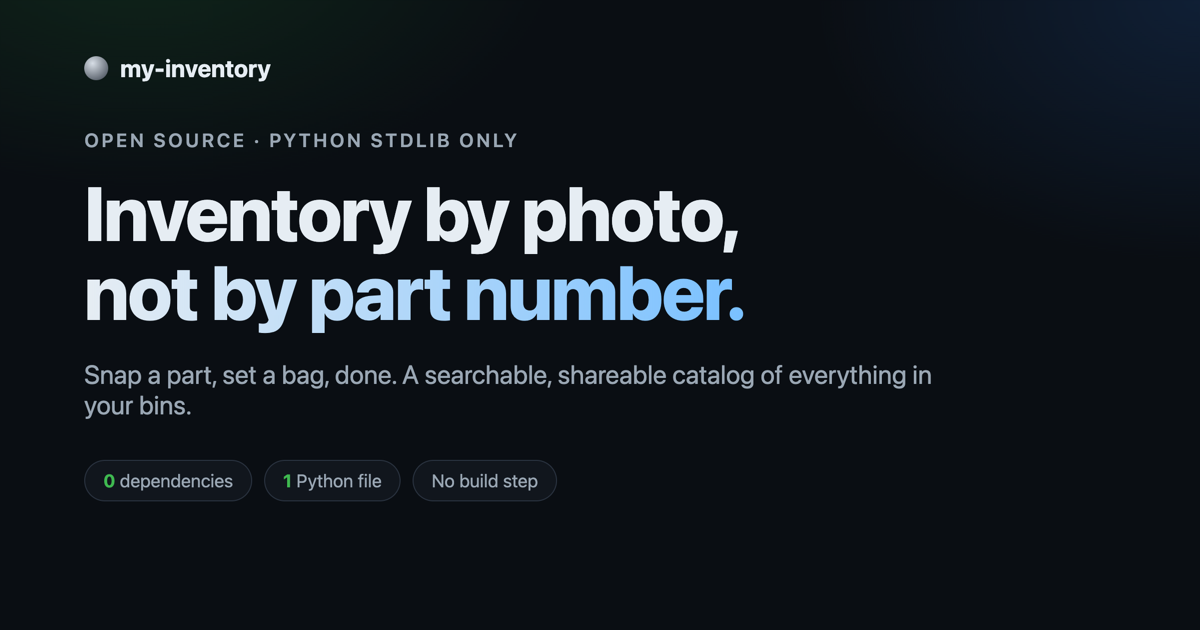
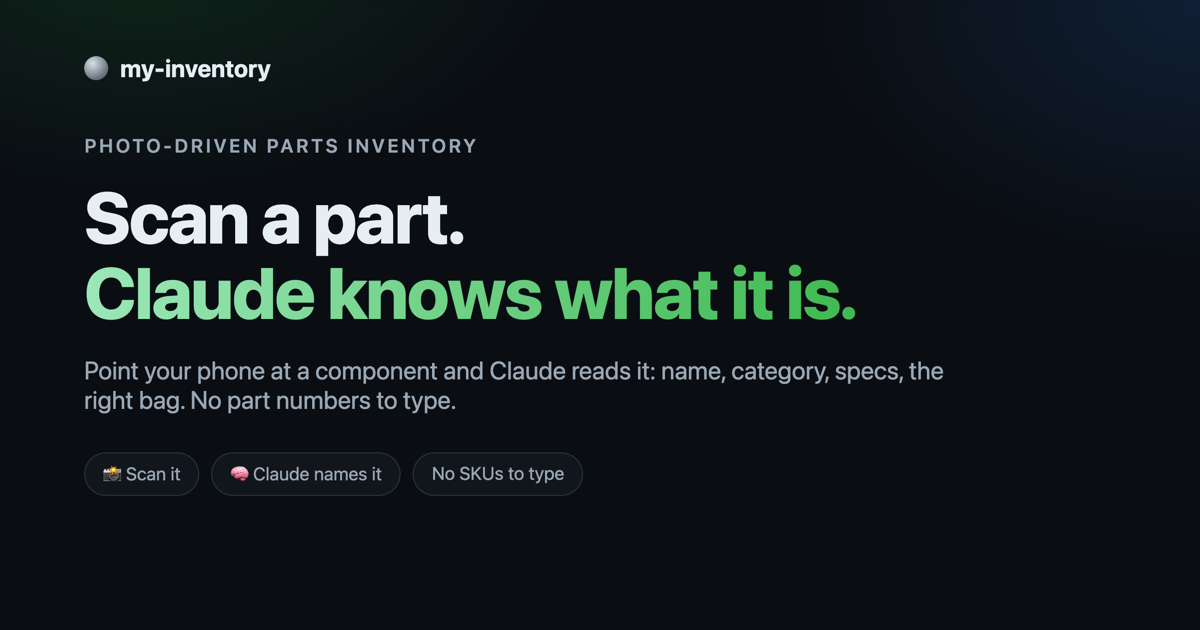
Reframe landing around the core value: scan a part, Claude recognizes it
Lead with phone-scan + AI identification as the hero and add a 'You snap →
Claude recognizes it → It's filed' flow. Demote the Python/stdlib angle to a
single self-host mention. New OG card to match.

diff --git a/docs/index.html b/docs/index.html
@@ -3,21 +3,21 @@
 <head>
 <meta charset="utf-8" />
 <meta name="viewport" content="width=device-width, initial-scale=1" />
-<title>my-inventory: inventory by photo, not by part number</title>
-<meta name="description" content="A photo-driven inventory for small parts. Snap a part, set a bag, done. One Python file, standard library only, no build step. Public dashboard, login to edit, optional AI identification." />
+<title>my-inventory: scan a part, Claude knows what it is</title>
+<meta name="description" content="Point your phone at a part and Claude recognizes it, filling in the name, category, specs and condition, then files it in the right bag. A photo-driven parts inventory you self-host. No part numbers to type." />
 <link rel="canonical" href="https://m-esm.github.io/my-inventory/" />
 
 <!-- Open Graph / Twitter -->
 <meta property="og:type" content="website" />
-<meta property="og:title" content="my-inventory: inventory by photo, not by part number" />
-<meta property="og:description" content="Snap a part, set a bag, done. A searchable, shareable catalog of everything in your bins. One Python file, zero dependencies." />
+<meta property="og:title" content="my-inventory: scan a part, Claude knows what it is" />
+<meta property="og:description" content="Point your phone at a part. Claude reads the photo and fills in the name, category and specs, then files it in the right bag. No part numbers to type." />
 <meta property="og:url" content="https://m-esm.github.io/my-inventory/" />
 <meta property="og:image" content="https://m-esm.github.io/my-inventory/og.png" />
 <meta property="og:image:width" content="1200" />
 <meta property="og:image:height" content="630" />
 <meta name="twitter:card" content="summary_large_image" />
-<meta name="twitter:title" content="my-inventory: inventory by photo, not by part number" />
-<meta name="twitter:description" content="Snap a part, set a bag, done. One Python file, zero dependencies, self-hosted." />
+<meta name="twitter:title" content="my-inventory: scan a part, Claude knows what it is" />
+<meta name="twitter:description" content="Point your phone at a part. Claude recognizes it and catalogs it for you. No part numbers to type." />
 <meta name="twitter:image" content="https://m-esm.github.io/my-inventory/og.png" />
 
 <style>
@@ -42,7 +42,7 @@
   a { color:var(--bluefg); text-decoration:none; }
   .wrap { max-width:1080px; margin:0 auto; padding:0 24px; }
   .eyebrow { font-size:13px; letter-spacing:.12em; text-transform:uppercase; color:var(--dim2); font-weight:600; }
-  .accent { background:linear-gradient(90deg,#e6edf3,#79c0ff); -webkit-background-clip:text; background-clip:text; -webkit-text-fill-color:transparent; }
+  .accent { background:linear-gradient(90deg,#9be7b8,#3fb950); -webkit-background-clip:text; background-clip:text; -webkit-text-fill-color:transparent; }
   .btn { display:inline-flex; align-items:center; gap:8px; border-radius:10px; padding:12px 20px;
          font-weight:600; font-size:15px; border:1px solid var(--line2); background:var(--panel2); color:var(--text); transition:.15s; }
   .btn:hover { border-color:#3a4654; transform:translateY(-1px); }
@@ -62,8 +62,8 @@
 
   /* hero */
   .hero { padding:76px 0 40px; text-align:center; }
-  .hero h1 { font-size:clamp(38px,6vw,66px); line-height:1.04; margin:18px 0 0; letter-spacing:-.02em; font-weight:800; }
-  .hero p.sub { font-size:clamp(17px,2.2vw,21px); color:var(--dim2); max-width:680px; margin:22px auto 0; }
+  .hero h1 { font-size:clamp(38px,6vw,64px); line-height:1.05; margin:18px 0 0; letter-spacing:-.02em; font-weight:800; }
+  .hero p.sub { font-size:clamp(17px,2.2vw,21px); color:var(--dim2); max-width:700px; margin:22px auto 0; }
   .cta-row { margin-top:30px; display:flex; gap:14px; justify-content:center; flex-wrap:wrap; }
   .pills { margin-top:26px; display:flex; gap:10px; justify-content:center; flex-wrap:wrap; }
   .pill { font-size:13px; color:var(--dim2); border:1px solid var(--line2); background:var(--panel); border-radius:999px; padding:6px 13px; }
@@ -80,23 +80,29 @@
   /* sections */
   section { padding:72px 0; border-top:1px solid var(--line); }
   .stitle { font-size:clamp(26px,3.4vw,38px); font-weight:800; letter-spacing:-.02em; margin:0; text-align:center; }
-  .slead { text-align:center; color:var(--dim2); max-width:640px; margin:14px auto 0; font-size:17px; }
+  .slead { text-align:center; color:var(--dim2); max-width:660px; margin:14px auto 0; font-size:17px; }
 
-  /* why cards */
-  .why { display:grid; grid-template-columns:repeat(3,1fr); gap:18px; margin-top:46px; }
-  .why .c { background:var(--panel); border:1px solid var(--line); border-radius:14px; padding:24px; }
-  .why .c h3 { margin:6px 0 8px; font-size:18px; }
-  .why .c p { margin:0; color:var(--dim2); font-size:15px; }
-  .why .c .ic { font-size:24px; }
-  @media (max-width:760px){ .why { grid-template-columns:1fr; } }
+  /* flow (the recognition pipeline) */
+  .flow { display:grid; grid-template-columns:1fr auto 1fr auto 1fr; align-items:stretch; gap:16px; margin-top:48px; }
+  .flow .arrow { align-self:center; color:var(--dim); font-size:24px; }
+  .node { background:var(--panel); border:1px solid var(--line); border-radius:16px; padding:26px 22px; text-align:center; }
+  .node.star { border-color:#2ea04366; box-shadow:0 0 0 1px #2ea04333, 0 20px 50px -30px #2ea04355; background:linear-gradient(180deg,#11201a,#11161d); }
+  .node .ic { font-size:30px; }
+  .node h3 { margin:12px 0 8px; font-size:18px; }
+  .node p { margin:0; color:var(--dim2); font-size:14.5px; }
+  .node .tag { display:inline-block; margin-bottom:6px; font-size:11px; letter-spacing:.1em; text-transform:uppercase; color:var(--live); font-weight:700; }
+  @media (max-width:780px){
+    .flow { grid-template-columns:1fr; }
+    .flow .arrow { transform:rotate(90deg); }
+  }
 
   /* steps */
   .step { display:grid; grid-template-columns:1fr 1fr; gap:44px; align-items:center; margin-top:54px; }
   .step:first-of-type { margin-top:46px; }
   .step.rev .txt { order:2; }
-  .step .num { display:inline-flex; align-items:center; justify-content:center; width:34px; height:34px; border-radius:9px;
-               background:var(--bluefg)14; color:var(--bluefg); border:1px solid #2f81f755; font-weight:700; font-size:15px; }
-  .step h3 { font-size:23px; margin:16px 0 8px; letter-spacing:-.01em; }
+  .step .num { display:inline-flex; align-items:center; justify-content:center; height:30px; padding:0 13px; border-radius:999px;
+               background:#2ea0431f; color:var(--live); border:1px solid #2ea04355; font-weight:700; font-size:13px; letter-spacing:.03em; }
+  .step h3 { font-size:24px; margin:16px 0 8px; letter-spacing:-.01em; }
   .step p { color:var(--dim2); margin:0; }
   .step .shot { border:1px solid var(--line2); border-radius:12px; overflow:hidden; background:var(--panel); box-shadow:0 24px 60px -36px #000; }
   .step .shot img { display:block; width:100%; height:auto; }
@@ -111,15 +117,18 @@
   .feat p { margin:0; color:var(--dim2); font-size:14.5px; }
   @media (max-width:760px){ .grid { grid-template-columns:1fr; } }
 
-  /* code */
-  .code { max-width:720px; margin:40px auto 0; background:#06090d; border:1px solid var(--line2); border-radius:12px; overflow:hidden; }
+  /* self-host */
+  .host { display:grid; grid-template-columns:1fr 1fr; gap:40px; align-items:center; margin-top:40px; }
+  .host h2 { font-size:clamp(24px,3vw,32px); font-weight:800; letter-spacing:-.02em; margin:0 0 12px; }
+  .host p { color:var(--dim2); margin:0 0 10px; }
+  .code { background:#06090d; border:1px solid var(--line2); border-radius:12px; overflow:hidden; }
   .code .top { padding:9px 14px; border-bottom:1px solid var(--line); color:var(--dim); font-size:12px; background:var(--panel2); }
-  .code pre { margin:0; padding:20px; overflow-x:auto; font:14px/1.7 ui-monospace, SFMono-Regular, Menlo, monospace; }
-  .code .p { color:var(--live); } .code .c { color:var(--dim); } .code .k { color:var(--bluefg); }
+  .code pre { margin:0; padding:18px; overflow-x:auto; font:13.5px/1.7 ui-monospace, SFMono-Regular, Menlo, monospace; }
+  .code .p { color:var(--live); } .code .c { color:var(--dim); }
+  @media (max-width:760px){ .host { grid-template-columns:1fr; gap:22px; } }
 
   /* final cta */
-  .final { text-align:center; background:
-      radial-gradient(700px 300px at 50% 0%, #23863622, transparent 70%); }
+  .final { text-align:center; background:radial-gradient(700px 300px at 50% 0%, #23863622, transparent 70%); }
   .final h2 { font-size:clamp(28px,4vw,44px); font-weight:800; letter-spacing:-.02em; margin:0; }
   .final p { color:var(--dim2); font-size:18px; margin:16px auto 30px; max-width:560px; }
   .clone { display:inline-block; margin-top:24px; font:13.5px ui-monospace, Menlo, monospace; color:var(--dim2);
@@ -138,26 +147,26 @@
   <div class="nav-links">
     <a href="#how">How it works</a>
     <a href="#features">Features</a>
-    <a href="#start">Get started</a>
+    <a href="#host">Self-host</a>
     <a class="btn" href="https://github.com/m-esm/my-inventory" target="_blank" rel="noopener">GitHub</a>
   </div>
 </div></nav>
 
 <header class="hero"><div class="wrap">
-  <div class="eyebrow">Open source · Python stdlib only · GPL-3.0</div>
-  <h1>Inventory by photo,<br><span class="accent">not by part number.</span></h1>
-  <p class="sub">You never have the SKU. You have the part in your hand. Photograph it, drop it in a bag, and my-inventory turns that into a searchable, shareable catalog of everything in your bins, without a single dependency to install.</p>
+  <div class="eyebrow">Photo-driven parts inventory</div>
+  <h1>Point your phone at a part.<br><span class="accent">Claude knows what it is.</span></h1>
+  <p class="sub">Scan a resistor, a sensor, a mystery board from a teardown. my-inventory grabs the photo and Claude reads it, filling in the name, category, specs and condition, then files it in the right bag. You never type a part number. You never even type a name.</p>
   <div class="cta-row">
     <a class="btn primary" href="https://github.com/m-esm/my-inventory" target="_blank" rel="noopener">
       <svg viewBox="0 0 16 16" fill="currentColor"><path d="M8 0C3.58 0 0 3.58 0 8c0 3.54 2.29 6.53 5.47 7.59.4.07.55-.17.55-.38 0-.19-.01-.82-.01-1.49-2.01.37-2.53-.49-2.69-.94-.09-.23-.48-.94-.82-1.13-.28-.15-.68-.52-.01-.53.63-.01 1.08.58 1.23.82.72 1.21 1.87.87 2.33.66.07-.52.28-.87.51-1.07-1.78-.2-3.64-.89-3.64-3.95 0-.87.31-1.59.82-2.15-.08-.2-.36-1.02.08-2.12 0 0 .67-.21 2.2.82.64-.18 1.32-.27 2-.27.68 0 1.36.09 2 .27 1.53-1.04 2.2-.82 2.2-.82.44 1.1.16 1.92.08 2.12.51.56.82 1.27.82 2.15 0 3.07-1.87 3.75-3.65 3.95.29.25.54.73.54 1.48 0 1.07-.01 1.93-.01 2.2 0 .21.15.46.55.38A8.01 8.01 0 0016 8c0-4.42-3.58-8-8-8z"/></svg>
       View on GitHub
     </a>
-    <a class="btn" href="#how">See how it works</a>
+    <a class="btn" href="#how">See it in action</a>
   </div>
   <div class="pills">
-    <span class="pill"><b>0</b> dependencies</span>
-    <span class="pill"><b>1</b> Python file to deploy</span>
-    <span class="pill">No build step</span>
+    <span class="pill">📸 Scan with your phone</span>
+    <span class="pill">🧠 Claude fills in the details</span>
+    <span class="pill">No part numbers to type</span>
     <span class="pill">Ships a <b>~60-item</b> live example</span>
   </div>
 
@@ -165,84 +174,103 @@
     <div class="bar"><i></i><i></i><i></i><span class="url">localhost:8770/dashboard</span></div>
     <picture>
       <source srcset="screenshots/dashboard.webp" type="image/webp" />
-      <img src="screenshots/dashboard.png" alt="The my-inventory dashboard: a grid of electronics parts with photos, quantities, bag locations and category tags." loading="eager" width="1600" height="1345" />
+      <img src="screenshots/dashboard.png" alt="A dashboard of parts that Claude identified from photos: each card shows the part image plus a name, category, condition and bag location." loading="eager" width="1600" height="1345" />
     </picture>
   </div>
 </div></header>
 
-<section id="why"><div class="wrap">
-  <h2 class="stitle">Built around the photo, not the spreadsheet</h2>
-  <p class="slead">Most inventory tools ask for a part number you don't have. This one starts from the one honest record of what's in a bag: a picture of it.</p>
-  <div class="why">
-    <div class="c"><div class="ic">📷</div><h3>A photo beats a part number</h3><p>A macro shot identifies a component faster than digging for a SKU that rubbed off the bag months ago. The image is the source of truth; names and specs are optional metadata.</p></div>
-    <div class="c"><div class="ic">🔗</div><h3>Public to view, locked to edit</h3><p>Send a collaborator a read-only link to the whole catalog. Edit controls appear only after you log in. Auth stays off until you create the first admin.</p></div>
-    <div class="c"><div class="ic">🪶</div><h3>Runs on anything</h3><p><code>python3 server.py</code> and it's live. No Node, no pip, no database, no build pipeline. The same single file runs on your laptop or a $5 VPS.</p></div>
+<section id="recognize"><div class="wrap">
+  <h2 class="stitle">You photograph it. Claude catalogs it.</h2>
+  <p class="slead">The part in your hand is the only input. No SKUs to look up, no datasheets, no typing names that rub off the bag a month later.</p>
+  <div class="flow">
+    <div class="node">
+      <div class="ic">📸</div>
+      <h3>You snap</h3>
+      <p>Hold a part up to your phone (Continuity Camera) or any webcam. Take a few shots: the part, the label, the back of the board.</p>
+    </div>
+    <div class="arrow">→</div>
+    <div class="node star">
+      <span class="tag">the magic</span>
+      <div class="ic">🧠</div>
+      <h3>Claude recognizes it</h3>
+      <p>It reads the photo and identifies the component: name, category, condition, plus specs and SKU lifted off the label. Unsure? it flags the value for you to confirm.</p>
+    </div>
+    <div class="arrow">→</div>
+    <div class="node">
+      <div class="ic">🗂️</div>
+      <h3>It's filed</h3>
+      <p>The part lands on your dashboard with its photo, quantity and bag, instantly searchable and shareable with whoever you want.</p>
+    </div>
   </div>
 </div></section>
 
 <section id="how"><div class="wrap">
-  <h2 class="stitle">Three steps, no typing part numbers</h2>
-  <p class="slead">From a part in your hand to a searchable entry your collaborator can see.</p>
+  <h2 class="stitle">From a part in your hand to a catalog entry</h2>
+  <p class="slead">Three steps, and the only thing you type is the bag it goes in.</p>
 
   <div class="step">
     <div class="txt">
-      <span class="num">1</span>
-      <h3>Capture the part</h3>
-      <p>Point any webcam at it. A phone over macOS Continuity Camera works great. Take as many shots as you want for one item (the part, the label, the back of the board). Set a quantity and a bag, hit add.</p>
+      <span class="num">Step 1 · Scan</span>
+      <h3>Hold the part up to your phone</h3>
+      <p>Open the capture page and point any camera at the component. A phone over macOS Continuity Camera works great. Snap the part, the label, the back of the board: as many shots as you want for one item.</p>
     </div>
-    <div class="shot"><picture><source srcset="screenshots/capture.webp" type="image/webp" /><img src="screenshots/capture.png" alt="Capture page with the live camera, a current-item photo strip, quantity and location fields, and a live inventory list." loading="lazy" width="1600" height="1200" /></picture></div>
+    <div class="shot"><picture><source srcset="screenshots/capture.webp" type="image/webp" /><img src="screenshots/capture.png" alt="The capture page with a live camera view, a photo strip for the current item, and the running inventory beside it." loading="lazy" width="1600" height="1200" /></picture></div>
   </div>
 
   <div class="step rev">
     <div class="txt">
-      <span class="num">2</span>
-      <h3>It gets logged and organized</h3>
-      <p>The item lands on the dashboard with its photo as the thumbnail. Type the name yourself, or let an LLM read the photo and fill in name, category, condition and specs. Add the same part twice and it asks whether to top up the bag or file a new one.</p>
+      <span class="num">Step 2 · Claude identifies</span>
+      <h3>Claude reads the photo and names it</h3>
+      <p>This is the part you don't do. Claude looks at your shots and writes back the name, category, condition and the specs and SKU printed on the label. It catches duplicates, orders the part photo first, and flags anything it isn't sure about so you can confirm it.</p>
     </div>
-    <div class="shot"><picture><source srcset="screenshots/dashboard.webp" type="image/webp" /><img src="screenshots/dashboard.png" alt="Dashboard grid of identified parts with category and location tags and per-card quantity controls." loading="lazy" width="1600" height="1345" /></picture></div>
+    <div class="shot"><picture><source srcset="screenshots/dashboard.webp" type="image/webp" /><img src="screenshots/dashboard.png" alt="Identified parts on the dashboard, each with a Claude-written name, category tag, bag location and notes." loading="lazy" width="1600" height="1345" /></picture></div>
   </div>
 
   <div class="step">
     <div class="txt">
-      <span class="num">3</span>
-      <h3>Search, share, and request what's missing</h3>
-      <p>Filter by category, location or free text, and read the bag/bin map at a glance. Keep a separate "to buy" list for parts you're out of. Its create endpoint is public, so an agent can request a component with no credentials.</p>
+      <span class="num">Step 3 · Find &amp; share</span>
+      <h3>Search it, share it, restock it</h3>
+      <p>Filter by category, location or free text and read the bag map at a glance. Send a collaborator a read-only link to the whole catalog. Keep a "to buy" list for what you're out of, with a public endpoint so an agent can request a part with no login.</p>
     </div>
     <div class="shot"><picture><source srcset="screenshots/buy.webp" type="image/webp" /><img src="screenshots/buy.png" alt="The to-buy page listing purchase requests with project, type, reason, quantity and a status dropdown." loading="lazy" width="1600" height="1200" /></picture></div>
   </div>
 </div></section>
 
 <section id="features"><div class="wrap">
-  <h2 class="stitle">Everything in one small file</h2>
-  <p class="slead">No framework, no service mesh. Just the features you actually use to keep parts findable.</p>
+  <h2 class="stitle">What you get</h2>
+  <p class="slead">Built around recognizing the part, not around a spreadsheet you have to feed.</p>
   <div class="grid">
-    <div class="feat"><div class="ic">📸</div><h3>Photo-first capture</h3><p>Multiple shots per item from any webcam. The photo that shows the part is automatically the card thumbnail; labels go after.</p></div>
-    <div class="feat"><div class="ic">🔓</div><h3>View public, edit private</h3><p>Anyone can browse. Editing is gated behind an admin login, persisted in the browser. Manage users from the dashboard.</p></div>
-    <div class="feat"><div class="ic">🧠</div><h3>Optional AI identification</h3><p>Let an LLM agent watch new uploads, read the photo, and write back the name and specs, or skip it and type them.</p></div>
-    <div class="feat"><div class="ic">🗃️</div><h3>Duplicate-aware</h3><p>Re-add a part you own and the app surfaces a card to top up, set, or split the stash. No silent double entries.</p></div>
-    <div class="feat"><div class="ic">🛒</div><h3>A "to buy" list</h3><p>Track parts to purchase, separate from stock. Marking one bought closes the loop when you file the real part.</p></div>
-    <div class="feat"><div class="ic">🤖</div><h3>Agent-friendly (MCP)</h3><p>A stdlib MCP server exposes search, summary, item photos, and one public write so agents can request parts.</p></div>
+    <div class="feat"><div class="ic">🧠</div><h3>Claude identifies the part</h3><p>Name, category, condition, specs and SKU read straight off the photo. The image is the source of truth; the metadata writes itself.</p></div>
+    <div class="feat"><div class="ic">📸</div><h3>Scan with your phone</h3><p>Multiple shots per item from Continuity Camera or any webcam. The photo that shows the part becomes the card thumbnail automatically.</p></div>
+    <div class="feat"><div class="ic">🏷️</div><h3>Reads the label too</h3><p>Point it at the back of the bag and Claude lifts the SKU, pack count and specs, then merges them into the entry it already made.</p></div>
+    <div class="feat"><div class="ic">🗃️</div><h3>Duplicate-aware</h3><p>Re-scan a part you own and it surfaces a card to top up, set, or split the stash by bag. No silent double entries.</p></div>
+    <div class="feat"><div class="ic">🔓</div><h3>View public, edit private</h3><p>Share a read-only link with anyone. Editing is gated behind a login. Manage users from the dashboard.</p></div>
+    <div class="feat"><div class="ic">🛒</div><h3>"To buy" list for agents</h3><p>An MCP server lets an agent search your stock and request a part it needs with no credentials. Mark it bought when it arrives.</p></div>
   </div>
 </div></section>
 
-<section id="start"><div class="wrap">
-  <h2 class="stitle">The whole install</h2>
-  <p class="slead">No dependencies to resolve. Clone it, run it, open the dashboard. Tested on Python 3.9+.</p>
-  <div class="code">
-    <div class="top">terminal</div>
-    <pre><span class="c"># clone and run, that's it</span>
+<section id="host"><div class="wrap">
+  <div class="host">
+    <div>
+      <h2>Open source, and entirely yours</h2>
+      <p>my-inventory is a small, self-hosted app with no database and no build step. Your photos and data stay on your machine or your own server. Run it locally in one command, or put it behind Docker or Caddy to share.</p>
+      <p>Bring your own Claude setup to do the identifying, or skip it and type names yourself. Either way the inventory is yours.</p>
+      <a class="btn" href="https://github.com/m-esm/my-inventory" target="_blank" rel="noopener" style="margin-top:8px">Read the docs on GitHub</a>
+    </div>
+    <div class="code">
+      <div class="top">terminal</div>
+      <pre><span class="c"># clone, run, open the dashboard</span>
 git clone https://github.com/m-esm/my-inventory
 cd my-inventory
-<span class="p">python3</span> server.py            <span class="c"># http://localhost:8770/dashboard</span>
-
-<span class="c"># share it: same file behind Docker or Caddy (auto-HTTPS)</span>
-<span class="p">docker</span> compose up -d --build</pre>
+<span class="p">python3</span> server.py
+<span class="c"># → http://localhost:8770/dashboard</span></pre>
+    </div>
   </div>
 </div></section>
 
 <section class="final"><div class="wrap">
   <h2>Stop guessing what's in the bag.</h2>
-  <p>A photo-driven parts inventory you can stand up in under a minute and actually keep using.</p>
+  <p>Scan a part, let Claude name it, and have a searchable catalog of your whole stash in an afternoon.</p>
   <div class="cta-row">
     <a class="btn primary" href="https://github.com/m-esm/my-inventory" target="_blank" rel="noopener">
       <svg viewBox="0 0 16 16" fill="currentColor"><path d="M8 0C3.58 0 0 3.58 0 8c0 3.54 2.29 6.53 5.47 7.59.4.07.55-.17.55-.38 0-.19-.01-.82-.01-1.49-2.01.37-2.53-.49-2.69-.94-.09-.23-.48-.94-.82-1.13-.28-.15-.68-.52-.01-.53.63-.01 1.08.58 1.23.82.72 1.21 1.87.87 2.33.66.07-.52.28-.87.51-1.07-1.78-.2-3.64-.89-3.64-3.95 0-.87.31-1.59.82-2.15-.08-.2-.36-1.02.08-2.12 0 0 .67-.21 2.2.82.64-.18 1.32-.27 2-.27.68 0 1.36.09 2 .27 1.53-1.04 2.2-.82 2.2-.82.44 1.1.16 1.92.08 2.12.51.56.82 1.27.82 2.15 0 3.07-1.87 3.75-3.65 3.95.29.25.54.73.54 1.48 0 1.07-.01 1.93-.01 2.2 0 .21.15.46.55.38A8.01 8.01 0 0016 8c0-4.42-3.58-8-8-8z"/></svg>
@@ -253,11 +281,11 @@ cd my-inventory
 </div></section>
 
 <footer><div class="wrap">
-  <div>my-inventory: photo-driven parts inventory.</div>
+  <div>my-inventory: scan a part, Claude catalogs it.</div>
   <div>
     <a href="https://github.com/m-esm/my-inventory" target="_blank" rel="noopener">GitHub</a> ·
     <a href="https://github.com/m-esm/my-inventory/blob/main/LICENSE" target="_blank" rel="noopener">GPL-3.0</a> ·
-    Built with Python stdlib
+    Self-hosted &amp; open source
   </div>
 </div></footer>
 